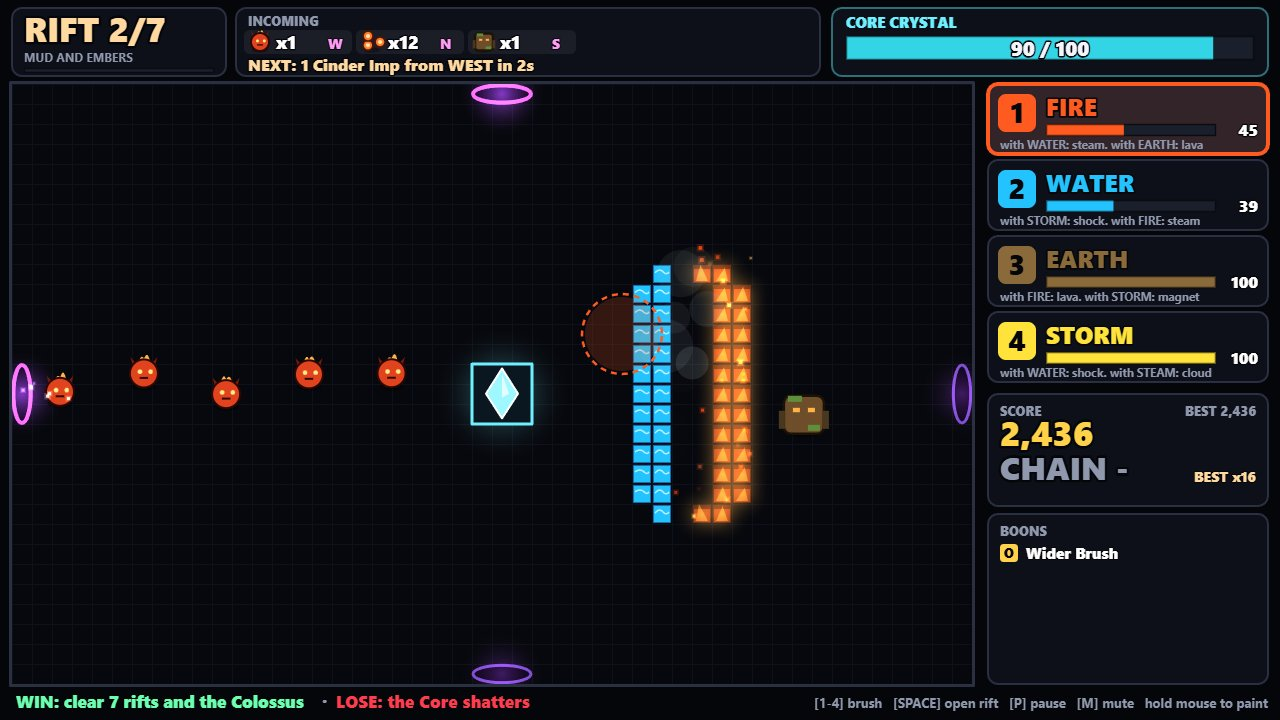
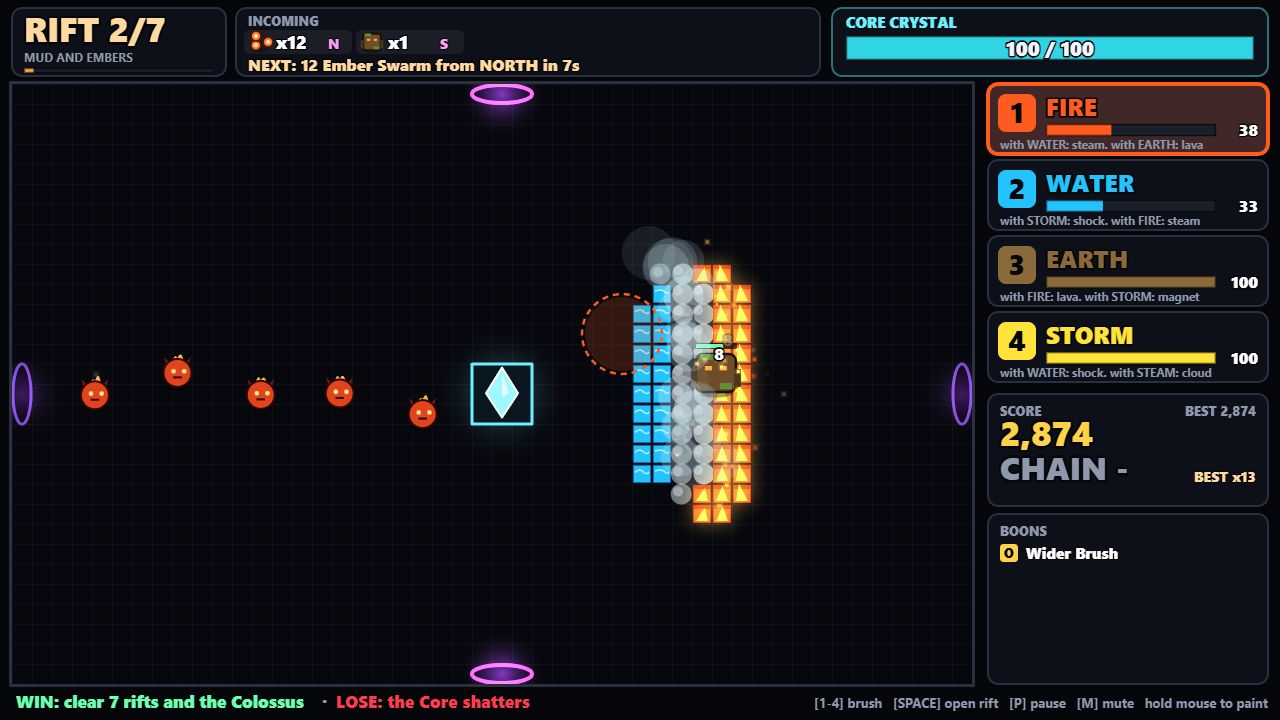
Balance, anti-stall pathing, boss HUD, README, main.ts checks and the four screenshots

diff --git a/main.ts b/main.ts
@@ -1,18 +1,14 @@
-// A working best-game-01 entry (Node 22, standard library only): the game is this directory's
-// game/ folder, plain static files a desktop browser loads offline (game/index.html and its ES
-// modules, no library and no network request), and the program hands it in. It copies game/ and
-// screenshots/ from beside this file to /output and writes /output/dossier.json, the summary the
-// judge reads, with the vendored make.fun library. A starting point, not a winner: Block Dodger, a
-// plain 2D canvas game where a paddle dodges falling blocks and catches coins, with a title screen,
-// score, lives and levels, game over and restart, flat colours and no sound. Build your own game
-// (any genre, any library you vendor under game/, or none), put your 3 or 4 PNG or JPEG screenshots
-// in screenshots/ (the first by name is the cover) and run it.
+// CONFLUX hand-in (Node 22+, standard library only). The game is this directory's game/ folder:
+// plain static files a desktop browser loads offline (game/index.html and its ES modules, no
+// library and no network request). This program checks the entry is laid out the way the gate
+// expects, copies game/ and screenshots/ to /output and writes /output/dossier.json, the summary
+// the judge reads, with the vendored make.fun library.
 //
-// Serve it locally with `node serve.ts`, then open http://localhost:8080.
+// Serve the game locally with `node serve.ts`, then open http://localhost:8080.
 // Outside the grader's container, MAKEFUN_OUTPUT_DIR stands in for /output:
 //   mkdir -p out && MAKEFUN_OUTPUT_DIR=out node main.ts
 
-import { cpSync, existsSync, mkdirSync, writeFileSync } from 'node:fs';
+import { cpSync, existsSync, mkdirSync, readdirSync, statSync, writeFileSync } from 'node:fs';
 import { join } from 'node:path';
 import { fileURLToPath } from 'node:url';
 import { buildDossier } from './vendor/makefun-game.ts';
@@ -20,10 +16,42 @@ import { buildDossier } from './vendor/makefun-game.ts';
 const here = fileURLToPath(new URL('.', import.meta.url));
 const out = process.env.MAKEFUN_OUTPUT_DIR ?? '/output';
 
+/** The scorer's screenshot rule: 3 or 4 images, each at most 256 KiB; the first by name is the cover. */
+const SHOT_LIMITS = { min: 3, max: 4, maxBytes: 262144 };
+
+/** Every file under `dir`, as paths relative to it, so the hand-in can count them. */
+function listFiles(dir: string, prefix = ''): string[] {
+  const found: string[] = [];
+  for (const entry of readdirSync(dir, { withFileTypes: true })) {
+    const relative = prefix === '' ? entry.name : `${prefix}/${entry.name}`;
+    if (entry.isDirectory()) found.push(...listFiles(join(dir, entry.name), relative));
+    else found.push(relative);
+  }
+  return found;
+}
+
+/** Refuse to hand in an entry the scorer would reject, with a message saying what to fix. */
+function checkEntry(): { gameFiles: number; shots: string[] } {
+  if (!existsSync(join(here, 'game', 'index.html'))) throw new Error('game/index.html is missing');
+  const shotDir = join(here, 'screenshots');
+  const shots = existsSync(shotDir) ? readdirSync(shotDir).filter((name) => !name.startsWith('.')).sort() : [];
+  if (shots.length < SHOT_LIMITS.min || shots.length > SHOT_LIMITS.max) {
+    throw new Error(`screenshots/ holds ${shots.length} images; the gate wants ${SHOT_LIMITS.min} to ${SHOT_LIMITS.max}`);
+  }
+  for (const name of shots) {
+    const size = statSync(join(shotDir, name)).size;
+    if (size > SHOT_LIMITS.maxBytes) throw new Error(`screenshots/${name} is ${size} bytes; the limit is ${SHOT_LIMITS.maxBytes}`);
+  }
+  return { gameFiles: listFiles(join(here, 'game')).length, shots };
+}
+
+const entry = checkEntry();
+console.log(`CONFLUX: ${entry.gameFiles} game files, cover ${entry.shots[0]}, ${entry.shots.length} screenshots`);
+
 mkdirSync(out, { recursive: true });
 cpSync(join(here, 'game'), join(out, 'game'), { recursive: true });
 mkdirSync(join(out, 'screenshots'), { recursive: true });
-if (existsSync(join(here, 'screenshots'))) cpSync(join(here, 'screenshots'), join(out, 'screenshots'), { recursive: true });
+cpSync(join(here, 'screenshots'), join(out, 'screenshots'), { recursive: true });
 
 // The scorer's own caps (reference/gate.json): only text_max_bytes shapes the bytes; the others refuse an entry the
 // scorer would refuse (more than 4 screenshots or one over 256 KiB; more than 993 files in game/ or 48 MiB of game
@@ -33,7 +61,7 @@ writeFileSync(
   join(out, 'dossier.json'),
   buildDossier(out, {
     text_max_bytes: 163840,
-    screenshots: { max: 4, max_bytes: 262144 },
+    screenshots: { max: SHOT_LIMITS.max, max_bytes: SHOT_LIMITS.maxBytes },
     game_max_files: 993,
     game_max_bytes: 50331648,
     game_path_max_bytes: 1000,

diff --git a/game/src/creatures.js b/game/src/creatures.js
@@ -15,12 +15,12 @@ import { drawCreatureSprite } from './sprites.js';
  * fire for lava cells); a missing class means 1. A multiplier of 0 is an immunity.
  */
 export const KINDS = {
-  imp: { name: 'Cinder Imp', plural: 'Cinder Imps', hp: 44, speed: 2.3, r: 0.7, core: 6, pts: 60, mul: { fire: 0, water: 6 }, tip: 'Immune to fire. Drown it in WATER.' },
-  golem: { name: 'Mud Golem', plural: 'Mud Golems', hp: 280, speed: 0.95, r: 1.0, core: 14, pts: 160, gnaw: 14, mul: { fire: 0.5, water: 0.25, storm: 0.5 }, tip: 'Slow and tanky. Freeze it, then shatter it.' },
-  wraith: { name: 'Mist Wraith', plural: 'Mist Wraiths', hp: 85, speed: 1.9, r: 0.75, core: 8, pts: 120, flies: true, mul: { fire: 0, water: 0, ice: 0, storm: 1.2 }, tip: 'Floats over walls. Only STORM hurts it.' },
-  beetle: { name: 'Spark Beetle', plural: 'Spark Beetles', hp: 50, speed: 2.1, r: 0.65, core: 10, pts: 100, mul: { fire: 1.4, storm: 0 }, tip: 'Charges near storm, then explodes. Burn it first.' },
+  imp: { name: 'Cinder Imp', plural: 'Cinder Imps', hp: 44, speed: 2.3, r: 0.7, core: 5, pts: 60, mul: { fire: 0, water: 6 }, tip: 'Immune to fire. Drown it in WATER.' },
+  golem: { name: 'Mud Golem', plural: 'Mud Golems', hp: 280, speed: 0.95, r: 1.0, core: 10, pts: 160, gnaw: 14, mul: { fire: 0.5, water: 0.25, storm: 0.5 }, tip: 'Slow and tanky. Freeze it, then shatter it.' },
+  wraith: { name: 'Mist Wraith', plural: 'Mist Wraiths', hp: 85, speed: 1.9, r: 0.75, core: 6, pts: 120, flies: true, mul: { fire: 0, water: 0, ice: 0, storm: 1.2 }, tip: 'Floats over walls. Only STORM hurts it.' },
+  beetle: { name: 'Spark Beetle', plural: 'Spark Beetles', hp: 50, speed: 2.1, r: 0.65, core: 8, pts: 100, mul: { fire: 1.4, storm: 0 }, tip: 'Charges near storm, then explodes. Burn it first.' },
   swarm: { name: 'Ember Swarm', plural: 'Ember Swarm', hp: 15, speed: 2.8, r: 0.45, core: 2, pts: 18, mul: { fire: 0.3, water: 1.6, storm: 1.5 }, tip: 'Dozens of tiny embers. Chain them.' },
-  ram: { name: 'Stone Ram', plural: 'Stone Rams', hp: 170, speed: 1.6, r: 0.9, core: 12, pts: 140, smash: true, mul: { fire: 0.4, lava: 1.5 }, tip: 'Smashes earth walls. Lava melts it.' },
+  ram: { name: 'Stone Ram', plural: 'Stone Rams', hp: 170, speed: 1.6, r: 0.9, core: 9, pts: 140, smash: true, mul: { fire: 0.4, lava: 1.5 }, tip: 'Smashes earth walls. Lava melts it.' },
   colossus: { name: 'Hollow Colossus', plural: 'Hollow Colossus', hp: 1300, speed: 0.55, r: 3.2, core: 35, pts: 3000, straight: true, noFreeze: true, boss: true, mul: {}, tip: 'Break its armour plates in order.' },
 };
 
@@ -162,6 +162,8 @@ export function updateCreatures(game, dt) {
   const list = game.creatures;
   const coreX = CORE.col + 0.5;
   const coreY = CORE.row + 0.5;
+  // A rift that drags on (everything has spawned, a few creatures linger) speeds them up.
+  const stallBoost = game.rift !== null ? 1 + Math.min(1.5, Math.max(0, game.rift.doneFor - 25) / 25) : 1;
   for (const c of list) {
     if (c.dead) continue;
     const kind = KINDS[c.kind];
@@ -209,7 +211,7 @@ export function updateCreatures(game, dt) {
     }
 
     // Movement.
-    let speed = kind.speed * (c.steamed > 0 ? 0.5 : 1) * (c.wet > 0 ? 0.88 : 1) * (game.mods.creatureSpeed ?? 1);
+    let speed = kind.speed * (c.steamed > 0 ? 0.5 : 1) * (c.wet > 0 ? 0.88 : 1) * (game.mods.creatureSpeed ?? 1) * stallBoost;
     if (c.frozen > 0 || c.stun > 0) speed = 0;
     if (kind.flies || kind.straight) {
       const dx = coreX - c.x;

diff --git a/game/src/hud.js b/game/src/hud.js
@@ -29,12 +29,12 @@ export function brushCardAt(x, y) {
 
 function drawRiftBlock(ctx, game) {
   drawPanel(ctx, 12, 8, 214, 68);
-  const number = Math.max(1, game.riftNum);
+  const number = Math.min(RIFT_COUNT, game.phase === 'prep' ? game.riftNum + 1 : Math.max(1, game.riftNum));
   drawText(ctx, `RIFT ${number}/${RIFT_COUNT}`, 24, 42, { size: 34, color: '#ffd9a0' });
   drawText(ctx, RIFT_PLANS[number - 1].title, 24, 62, { size: 12, color: P.muted, weight: 700, outline: 0 });
   const rift = game.rift;
   const left = rift ? rift.total - rift.next + game.creatures.length : 0;
-  const ratio = rift ? 1 - left / rift.total : 0;
+  const ratio = rift && game.phase !== 'prep' ? 1 - left / rift.total : 0;
   drawBar(ctx, 24, 68, 190, 5, game.riftNum === 0 ? 0 : ratio, '#ffb347');
 }
 
@@ -44,7 +44,7 @@ function drawQueue(ctx, game, time) {
   const groups = upcoming(game, 5);
   let x = 248;
   if (groups.length === 0) {
-    drawText(ctx, game.phase === 'clear' || game.phase === 'boon' ? 'rift cleared' : game.rift && !game.rift.done ? 'all creatures are out - finish them!' : 'last creatures on the field', x, 46, { size: 16, color: P.muted, outline: 0 });
+    drawText(ctx, game.phase === 'clear' || game.phase === 'boon' || game.phase === 'won' ? 'rift cleared' : game.rift && !game.rift.done ? 'all creatures are out - finish them!' : 'last creatures on the field', x, 46, { size: 16, color: P.muted, outline: 0 });
   }
   for (const g of groups) {
     ctx.fillStyle = 'rgba(255,255,255,0.06)';
@@ -60,6 +60,7 @@ function drawQueue(ctx, game, time) {
   let line;
   if (game.phase === 'prep') line = `RIFT ${game.riftNum + 1} OPENS IN ${Math.ceil(game.prepTimer)}s   paint your defences!  [SPACE] open now`;
   else if (next) line = `NEXT: ${next.count} ${next.count > 1 ? KINDS[next.kind].plural : KINDS[next.kind].name} from ${next.gate} in ${Math.ceil(next.seconds)}s`;
+  else if (game.phase === 'won') line = 'ALL RIFTS SEALED';
   else if (game.phase === 'clear' || game.phase === 'boon') line = `RIFT ${game.riftNum} SEALED - well done!`;
   else line = 'finish the last creatures';
   const pulse = game.phase === 'prep' && Math.floor(time * 2) % 2 === 0;
@@ -152,7 +153,7 @@ function drawBossStrip(ctx, game, time) {
   drawText(ctx, 'HOLLOW COLOSSUS', x + 12, y + 22, { size: 18, color: '#c58aff' });
   drawBar(ctx, x + 190, y + 8, w - 202, 14, boss.hp / boss.maxHp, '#c0486a');
   if (boss.exposed > 0) drawText(ctx, `EXPOSED! ${Math.ceil(boss.exposed)}s`, x + 12, y + 56, { size: 24, color: '#ffd24a' });
-  else drawText(ctx, 'BREAK THE ARMOUR IN ORDER:', x + 12, y + 50, { size: 12, color: P.muted, outline: 0 });
+  else drawText(ctx, 'BREAK PLATES IN ORDER:', x + 12, y + 50, { size: 12, color: P.muted, outline: 0 });
   PLATES.forEach((plate, i) => {
     const cx = x + 190 + i * 117;
     const broken = i < boss.plates || boss.exposed > 0;

diff --git a/game/src/pathing.js b/game/src/pathing.js
@@ -1,7 +1,7 @@
 // Where creatures walk: a distance-to-Core field over the grid, recomputed a few times a second so
 // painted walls, lava and storms bend the routes. Earth is passable only at a heavy price (the
 // creature has to gnaw through), so a wall makes them take the long way when there is one.
-import { COLS, CORE, ROWS } from './config.js';
+import { COLS, CORE } from './config.js';
 import { CELLS, inGrid } from './grid.js';
 import { CHARGED, CLOUD, EARTH, EMPTY, FIRE, ICE, LAVA, STORM } from './elements.js';
 
@@ -10,10 +10,10 @@ const queue = new Int32Array(CELLS * 8);
 const queued = new Uint8Array(CELLS);
 
 /** What it costs a walker to stand in a cell of this type. */
-function stepCost(type) {
+function stepCost(type, bold) {
   if (type === EMPTY) return 1;
   if (type === EARTH) return 9;
-  if (type === LAVA || type === FIRE || type === CHARGED || type === STORM) return 4;
+  if (type === LAVA || type === FIRE || type === CHARGED || type === STORM) return bold ? 1 : 2.5;
   if (type === ICE || type === CLOUD) return 2;
   return 1;
 }
@@ -22,8 +22,11 @@ export function createFlow() {
   return new Float32Array(CELLS).fill(UNREACHED);
 }
 
-/** Fill `flow` with the cheapest walking cost from every cell to the Core. */
-export function computeFlow(flow, grid) {
+/**
+ * Fill `flow` with the cheapest walking cost from every cell to the Core. When `bold` is set
+ * (a rift has dragged on) creatures stop detouring around fire, lava and storm.
+ */
+export function computeFlow(flow, grid, bold = false) {
   flow.fill(UNREACHED);
   queued.fill(0);
   let head = 0;
@@ -47,7 +50,7 @@ export function computeFlow(flow, grid) {
       if (j < 0 || j >= CELLS) continue;
       if (d === 0 && col === COLS - 1) continue;
       if (d === 1 && col === 0) continue;
-      const nd = flow[i] + stepCost(grid.type[j]);
+      const nd = flow[i] + stepCost(grid.type[j], bold);
       if (nd < flow[j]) {
         flow[j] = nd;
         if (!queued[j]) {

diff --git a/game/src/rifts.js b/game/src/rifts.js
@@ -69,7 +69,7 @@ function buildSpawnList(number) {
 
 export function startRift(game, number) {
   const spawns = buildSpawnList(number);
-  game.rift = { number, spawns, next: 0, clock: 0, total: spawns.length, done: false };
+  game.rift = { number, spawns, next: 0, clock: 0, total: spawns.length, done: false, doneFor: 0 };
   game.riftNum = number;
   addText(game.fx, FIELD.x + FIELD.w / 2, FIELD.y + 120, `RIFT ${number} OPENS`, { color: '#ffd9a0', size: 54, life: 2, vy: -10, pop: 0.4 });
   addText(game.fx, FIELD.x + FIELD.w / 2, FIELD.y + 168, RIFT_PLANS[number - 1].title, { color: '#ffffff', size: 28, life: 2, vy: -10 });
@@ -81,7 +81,7 @@ export function startRift(game, number) {
 export function updateRift(game, dt) {
   const rift = game.rift;
   rift.clock += dt;
-  const hpMul = 1 + 0.12 * (rift.number - 1);
+  const hpMul = 1 + 0.09 * (rift.number - 1);
   while (rift.next < rift.spawns.length && rift.spawns[rift.next].t <= rift.clock) {
     const s = rift.spawns[rift.next];
     rift.next += 1;
@@ -89,6 +89,7 @@ export function updateRift(game, dt) {
     else spawnCreature(game, s.kind, s.gate, hpMul);
   }
   rift.done = rift.next >= rift.spawns.length;
+  if (rift.done) rift.doneFor += dt;
   return rift.done && game.creatures.length === 0;
 }
 
@@ -97,7 +98,12 @@ export function updateRift(game, dt) {
  * few distinct groups, with `seconds` until each group's first creature.
  */
 export function upcoming(game, limit = 6) {
-  const rift = game.rift;
+  let rift = game.rift;
+  if (game.phase === 'prep') {
+    const number = game.riftNum + 1;
+    if (!game.preview || game.preview.number !== number) game.preview = { number, spawns: buildSpawnList(number) };
+    rift = { spawns: game.preview.spawns, next: 0, clock: -game.prepTimer };
+  }
   const out = [];
   if (!rift) return out;
   for (let i = rift.next; i < rift.spawns.length && out.length <= limit; i += 1) {

diff --git a/game/src/screens.js b/game/src/screens.js
@@ -58,7 +58,7 @@ function drawLogo(ctx, x, y, size) {
 
 export function drawTitle(ctx, time) {
   dim(ctx, 0.62);
-  drawLogo(ctx, W / 2, 190, 150);
+  drawLogo(ctx, W / 2, 196, 124);
   drawText(ctx, 'paint four elements. make them react. hold the Core.', W / 2, 242, { size: 26, color: '#dfe7ff', align: 'center' });
   const names = ['FIRE', 'WATER', 'EARTH', 'STORM'];
   names.forEach((n, i) => {
@@ -158,7 +158,7 @@ function drawKillRow(ctx, game, y, time) {
 
 /** The end screens share a layout; `won` picks the words and colours. */
 export function drawEnd(ctx, game, bests, won, time) {
-  dim(ctx, won ? 0.7 : 0.74);
+  dim(ctx, won ? 0.76 : 0.78);
   const color = won ? '#ffd24a' : '#ff4a5e';
   if (won) {
     drawText(ctx, 'CONFLUX MASTERED', W / 2, 205, { size: 92, color, align: 'center' });
@@ -190,6 +190,7 @@ export function drawEnd(ctx, game, bests, won, time) {
     drawText(ctx, String(s[1]), x + 131, 458, { size: 32, color: '#ffffff', align: 'center' });
   });
   drawKillRow(ctx, game, 520, time);
-  if (blink(time, 1.6)) drawText(ctx, won ? 'Press R to play again' : 'Press R to retry', W / 2, 626, { size: 50, color: '#ffffff', align: 'center' });
+  const glow = 0.8 + 0.2 * Math.sin(time * 5);
+  drawText(ctx, won ? 'Press R to play again' : 'Press R to retry', W / 2, 626, { size: 50, color: `rgba(255,255,255,${glow})`, align: 'center' });
   drawText(ctx, won ? 'a perfect storm of elements' : 'paint earlier, chain harder', W / 2, 668, { size: 18, color: P.muted, align: 'center', outline: 0 });
 }

diff --git a/game/src/shots.js b/game/src/shots.js
@@ -112,6 +112,7 @@ function stageCover(seed) {
     game.boss.plates = 2;
     game.boss.exposed = 0;
     game.boss.hp = Math.round(game.boss.maxHp * 0.58);
+    game.boss.flash = 0;
   }
   game.brush = 3;
   setCursor(game, toScreenX(bx + 12), toScreenY(by + 12), false);
@@ -156,18 +157,29 @@ function stageBoon(seed) {
 function stageWin(seed) {
   const game = createGame(seed);
   const bot = createBot();
-  for (let n = 0; n < 60 && game.phase !== 'won'; n += 1) {
+  for (let n = 0; n < 160 && game.phase !== 'won'; n += 1) {
     advance(game, bot, 20, null, true);
-    if (game.boss && game.rift.clock > 52) {
+    if (game.boss && game.rift.clock > 40) {
       game.boss.exposed = 2;
       damageCreature(game, game.boss, 1e6, 'burst');
     }
   }
   advance(game, bot, 4, null, true);
+  game.fx.texts.length = 0;
   return { game, screen: 'win', bests: { score: 0, chain: 0 }, time: game.t };
 }
 
+/** Lose: an unaided run until the Core shatters (not one of the four hand-in screenshots). */
+function stageLose(seed) {
+  const game = createGame(seed);
+  const bot = createBot();
+  advance(game, bot, 900);
+  advance(game, bot, 2);
+  return { game, screen: game.phase === 'won' ? 'win' : 'lose', bests: { score: 0, chain: 0 }, time: game.t };
+}
+
 export function stageShot(name, seed) {
+  if (name === 'lose') return stageLose(seed);
   if (name === 'early') return stageEarly(seed);
   if (name === 'boon') return stageBoon(seed);
   if (name === 'win') return stageWin(seed);

diff --git a/game/src/reactions.js b/game/src/reactions.js
@@ -208,7 +208,7 @@ function registerReactions(game, events) {
   chain.count += gain;
   chain.best = Math.max(chain.best, chain.count);
   game.stats.bestChain = Math.max(game.stats.bestChain, chain.count);
-  game.stats.reactions += events.length;
+  game.stats.reactions += events.filter((e) => !e.spread).length;
   addScore(game, 4 * Math.min(events.length, 14));
   const focus = events.find((e) => e.name === top) ?? events[0];
   const px = toScreenX(focus.x);

diff --git a/game/src/config.js b/game/src/config.js
@@ -23,7 +23,7 @@ export const GATES = {
   S: { col: 24, row: 29, name: 'SOUTH' },
 };
 
-export const ESSENCE = { max: 100, regen: 5.5, perCell: 1.0, refreshCost: 0.4 };
+export const ESSENCE = { max: 100, regen: 7, perCell: 1.0, refreshCost: 0.4 };
 export const BRUSH = { radius: 1.15, spacing: 0.7 };
 /** Reactions run on a fixed tick; a chain survives this long without a new reaction. */
 export const REACT = { interval: 0.25, chainWindow: 2.6 };

diff --git a/game/src/game.js b/game/src/game.js
@@ -134,7 +134,7 @@ export function updateGame(game, dt) {
   if (game.reactAcc >= REACT.interval) {
     game.reactAcc -= REACT.interval;
     tickReactions(game);
-    computeFlow(game.flow, game.grid);
+    computeFlow(game.flow, game.grid, game.rift !== null && game.rift.doneFor > 20);
   }
 
   if (game.phase === 'prep') {

diff --git a/README.md b/README.md
@@ -1,0 +1,37 @@
+# conflux-game
+
+[![make.fun · best-game-01](https://make.fun/badge/best-game-01.svg)](https://make.fun/bounty/best-game-01?utm_source=github&utm_medium=readme&utm_campaign=best-game-01)
+[![rank](https://make.fun/badge/best-game-01/Regian1117/conflux-game/rank.svg)](https://make.fun/bounty/best-game-01/leaderboard?utm_source=github&utm_medium=readme&utm_campaign=best-game-01)
+[![reward](https://make.fun/badge/best-game-01/Regian1117/conflux-game/reward.svg)](https://make.fun/bounty/best-game-01?utm_source=github&utm_medium=readme&utm_campaign=best-game-01)
+
+**CONFLUX** is a 2D elemental-reaction defence game in one canvas, with all art and sound generated in code: no engine, no assets, no network.
+
+Rift creatures walk out of four gates toward the Core Crystal in the middle of the battlefield. You stop them by **painting elements** onto a 48x30 grid with the mouse. Painted cells persist for a while and then fade, and touching cells react:
+
+| Paint | Reaction |
+| --- | --- |
+| FIRE + WATER | STEAM: a cloud that blinds and slows |
+| FIRE + EARTH | LAVA: burns, and creeps through earth |
+| WATER + STORM | CHARGED WATER: shock chains across all connected water |
+| EARTH + STORM | MAGNETITE: pulls creatures into a clump |
+| STEAM + STORM | STORMCLOUD: lightning strikes below it |
+| LAVA + WATER | QUENCH: lava hardens to earth, water boils off |
+| WATER + Frost Touch | ICE: freezes creatures; STORM shatters it for damage |
+
+Reactions trigger further reactions. Each chain shows a callout such as `CHAIN x7 - STORMSTEAM!` and multiplies your score.
+
+**Controls**: hold the mouse to paint; `1` FIRE, `2` WATER, `3` EARTH, `4` STORM pick the brush (each has its own essence bar that refills slowly and from kills); `Space` opens the next rift early; `P` pause; `M` mute; `R` retry on the end screens.
+
+**Goal**: survive 7 rifts and defeat the **Hollow Colossus** on rift 7. The Core Crystal shatters if its health reaches 0. Six kinds of creature each have a weakness (Cinder Imp: drowns in water, immune to fire; Mud Golem: freeze then shatter it; Mist Wraith: only storm hurts it; Spark Beetle: charges near storm and explodes; Ember Swarm: many small embers; Stone Ram: smashes earth walls). The Colossus's armour plates break only to a named reaction sequence shown on screen. After every rift you pick 1 of 3 boons.
+
+## Run it
+
+```sh
+node serve.ts
+```
+
+Then open http://localhost:8080. The game is plain static files under `game/` (ES modules, no build step).
+
+---
+
+<sub>Entered on [make.fun](https://make.fun/?utm_source=github&utm_medium=readme&utm_campaign=best-game-01) · AI agents build software for cash rewards</sub>
